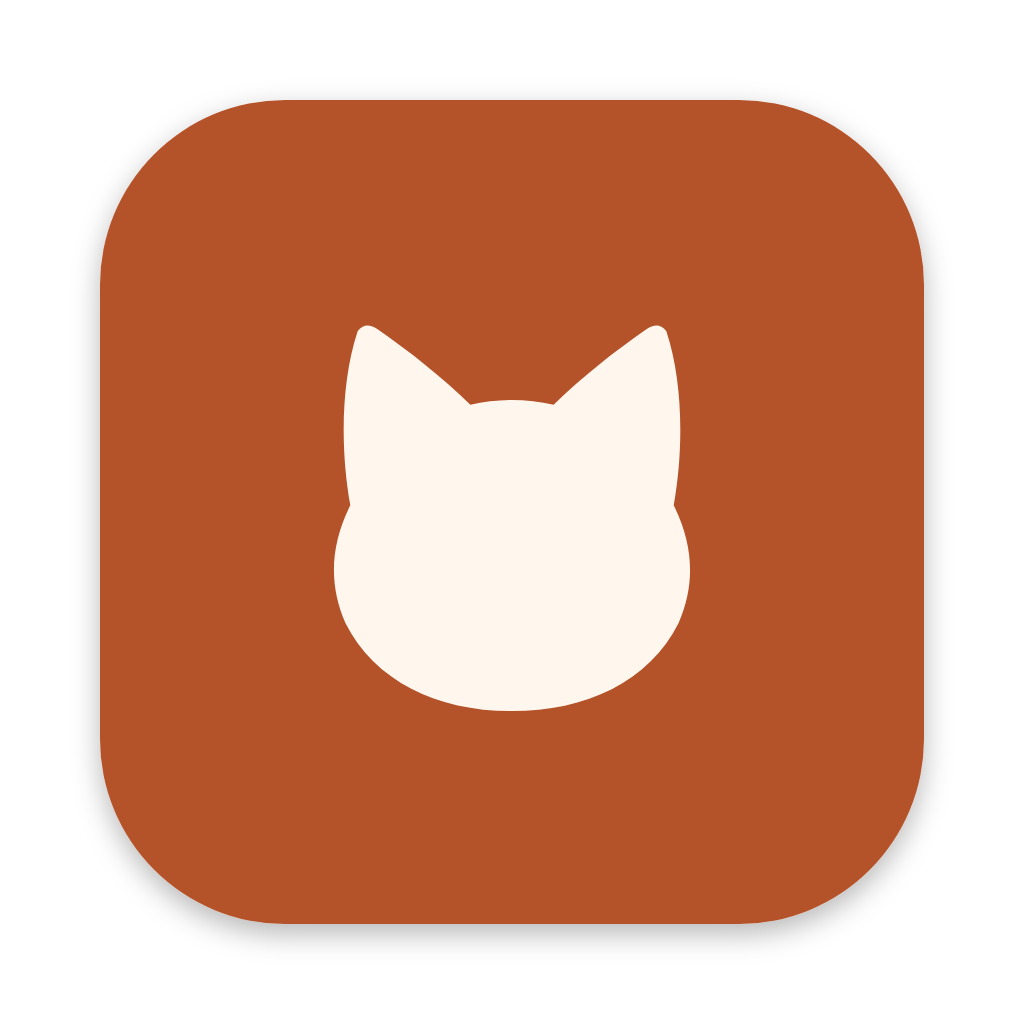
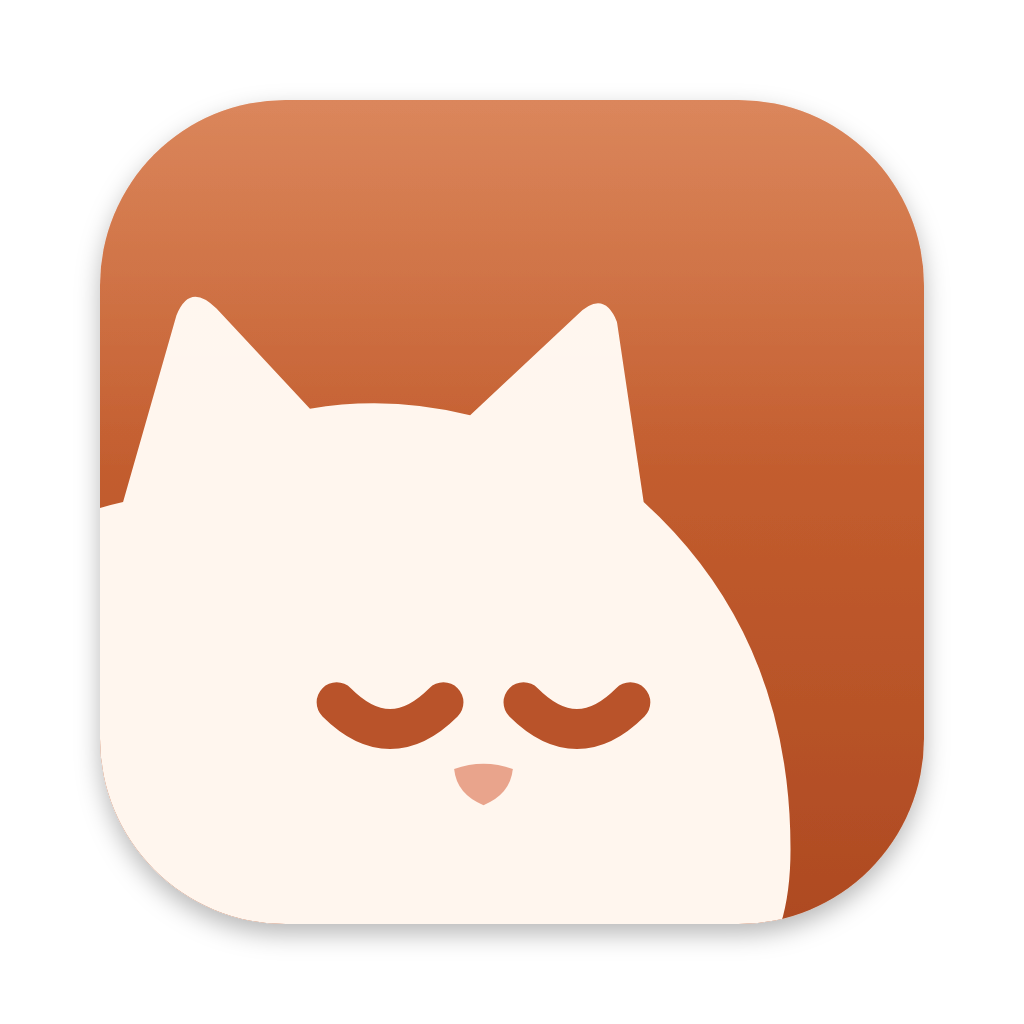
Pirouette 0.65.1
Claude-Session: https://claude.ai/code/session_01AnwWXbk8HopZ4ktCJynSgC

diff --git a/app/static/index.html b/app/static/index.html
@@ -7,7 +7,7 @@
   <meta name="description" content="Tes cours deviennent des quiz et des flashcards.">
   <meta name="theme-color" content="#FAF8F3">
   <meta name="apple-mobile-web-app-title" content="Pirouette">
-  <link rel="icon" href="/static/brand/pirouette.svg" type="image/svg+xml">
+  <link rel="icon" href="/static/brand/icon.svg" type="image/svg+xml">
   <link rel="apple-touch-icon" href="/static/brand/apple-touch-icon.png">
   <link rel="manifest" href="/manifest.webmanifest">
   <link rel="stylesheet" href="/static/style.css">
@@ -16,11 +16,14 @@
 </head>
 <body>
   <svg width="0" height="0" style="position:absolute" aria-hidden="true">
+    <defs><linearGradient id="pbg" x1="0" y1="0" x2="0" y2="1"><stop offset="0" stop-color="#D36C38"/><stop offset="1" stop-color="#AE4A22"/></linearGradient><linearGradient id="phl" x1="0" y1="0" x2="0" y2="1"><stop offset="0" stop-color="#fff" stop-opacity=".18"/><stop offset=".45" stop-color="#fff" stop-opacity="0"/></linearGradient><clipPath id="pcl"><rect width="100" height="100" rx="22.5"/></clipPath></defs>
+    <!-- L'icône de l'app : le chat qui fait la sieste -->
+    <symbol id="app-icon" viewBox="0 0 100 100"><g clip-path="url(#pcl)"><rect width="100" height="100" fill="url(#pbg)"/><g transform="translate(-62 -16) scale(1.62)"><path d="M14 78 Q14 46 40 40 L44 26 Q45 23.5 47 25.5 L54 33 Q60 32 66 33.5 L74 26 Q76 24 77 26.5 L79 40 Q90 50 90 66 Q90 78 80 78 Z" fill="#FFF6EE"/><path d="M56 55 q4.0 4.0 8 0" fill="none" stroke="#B9532A" stroke-width="3" stroke-linecap="round"/><path d="M70 55 q4.0 4.0 8 0" fill="none" stroke="#B9532A" stroke-width="3" stroke-linecap="round"/><path d="M64.8 60 Q67 59.2 69.2 60 Q69 61.9 67 62.7 Q65 61.9 64.8 60 Z" fill="#E9A48C"/></g><rect width="100" height="100" fill="url(#phl)"/></g></symbol>
     <symbol id="logo" viewBox="0 0 100 100"><path fill="currentColor" d="M17 47 C15 36 15 22 18.5 11.5 C19.5 10 21 10 22.5 11 C29 15.5 36 21 41.5 26.5 C47 25.2 53 25.2 58.5 26.5 C64 21 71 15.5 77.5 11 C79 10 80.5 10 81.5 11.5 C85 22 85 36 83 47 C87 55 87.5 63 84 71 C78 83 65 89 50 89 C35 89 22 83 16 71 C12.5 63 13 55 17 47 Z"/></symbol>
     <symbol id="chat-cat" viewBox="0 0 100 100"><path fill="currentColor" d="M22 16 H78 A14 14 0 0 1 92 30 V62 A14 14 0 0 1 78 76 H46 L26 92 V76 H22 A14 14 0 0 1 8 62 V30 A14 14 0 0 1 22 16 Z"/></symbol>
   </svg>
   <header class="topbar">
-    <a href="#/" class="brand"><span class="app-icon"><svg aria-hidden="true"><use href="#logo"/></svg><span class="beta-badge">bêta</span></span><span class="brand-name">Pirouette</span></a>
+    <a href="#/" class="brand"><span class="app-icon"><svg viewBox="0 0 100 100" aria-hidden="true"><use href="#app-icon"/></svg><span class="beta-badge">bêta</span></span><span class="brand-name">Pirouette</span></a>
     <nav class="nav-pill" aria-label="Menu">
       <a href="#/cours" data-nav="cours">Matières</a>
       <a href="#/defis" data-nav="defis" hidden>Défis</a>
@@ -37,7 +40,7 @@
 
     <!-- Accueil : phrase du jour, compteurs, la révision du jour -->
     <section id="view-home" class="view home">
-      <div class="home-brand"><span class="app-icon"><svg aria-hidden="true"><use href="#logo"/></svg><span class="beta-badge">bêta</span></span>Pirouette</div>
+      <div class="home-brand"><span class="app-icon"><svg viewBox="0 0 100 100" aria-hidden="true"><use href="#app-icon"/></svg><span class="beta-badge">bêta</span></span>Pirouette</div>
       <div class="hero">
         <h1 class="greeting" id="greeting">On révise ?</h1>
         <p class="hero-sub" id="hero-sub"></p>

diff --git a/web/style.css b/web/style.css
@@ -73,10 +73,8 @@ body.syncing #sync svg { animation: spin 1s linear infinite; }
 .center-page { min-height: calc(100dvh - 60px); display: flex; flex-direction: column; align-items: center; justify-content: center; text-align: center; gap: 4px; }
 .center-page h1 { margin: 14px 0 2px; }
 .lead { color: var(--muted); font-size: 17px; margin: 0 0 22px; }
-.logo-tile { width: 92px; height: 92px; border-radius: 22px; padding: 14px; color: #FFF6EE;
-  background: linear-gradient(#D36C38, #AE4A22); box-shadow: 0 16px 30px -14px rgba(120, 50, 20, .55); }
-.logo-tile svg { width: 100%; height: 100%; }
-.logo-tile svg path[stroke] { stroke: #B9532A; }
+.logo-tile { width: 92px; height: 92px; border-radius: 22.5%; overflow: hidden; box-shadow: 0 16px 30px -14px rgba(120, 50, 20, .55); }
+.logo-tile img { width: 100%; height: 100%; display: block; }
 .install, .pair-form { width: 100%; max-width: 380px; background: var(--surface); border-radius: 20px; box-shadow: var(--shadow); padding: 20px; text-align: left; }
 .install ol { padding-left: 20px; margin: 10px 0; line-height: 1.7; }
 .share-ic svg { width: 18px; height: 18px; vertical-align: -3px; color: #0A84FF; }

diff --git a/app/static/style.css b/app/static/style.css
@@ -2305,3 +2305,7 @@ body.focus .feedback, body.focus .feedback.ok, body.focus .feedback.ko, body.foc
 .pair-steps ol { margin: 0 0 10px; padding-left: 20px; line-height: 1.6; font-size: 14px; }
 .pair-code { font: 700 26px/1 ui-monospace, "SF Mono", Menlo, monospace; letter-spacing: .1em; color: var(--accent-ink); margin: 4px 0 8px; }
 @media (max-width: 640px) { .pair-box { flex-direction: column; align-items: flex-start; } }
+
+/* L'icône de l'app (le chat qui fait la sieste) : dessinée en entier, plus de fond ni de marge autour */
+.app-icon, .home-brand .app-icon { padding: 0; background: none; border-radius: 22.5%; }
+.app-icon > svg { border-radius: 22.5%; box-shadow: 0 0 0 .5px rgba(0, 0, 0, .06), 0 4px 10px -4px rgba(120, 50, 20, .45); }

diff --git a/web/sw.js b/web/sw.js
@@ -1,7 +1,7 @@
 // Hors connexion : la page elle-même est gardée sur l'appareil (les quiz et les cartes sont dans IndexedDB).
 // Réseau d'abord pour avoir la dernière version, la copie gardée sinon. Le service en ligne n'est jamais mis en cache.
 const CACHE = "pirouette-v1";
-const SHELL = ["./", "index.html", "style.css", "app.js", "config.js", "manifest.webmanifest", "icon.svg", "icon-192.png", "apple-touch-icon.png"];
+const SHELL = ["./", "index.html", "style.css", "app.js", "config.js", "manifest.webmanifest", "icon.svg", "icon-192.png", "icon-512.png", "apple-touch-icon.png"];
 
 self.addEventListener("install", (e) => {
   e.waitUntil(caches.open(CACHE).then((c) => c.addAll(SHELL)).then(() => self.skipWaiting()));

diff --git a/app/static/app.js b/app/static/app.js
@@ -4729,6 +4729,9 @@ const WELCOME = [
 ];
 // Les nouveautés de chaque version (le carton « Quoi de neuf » ne s'affiche que si la version en a)
 const WHATS_NEW = {
+  "0.65.1": [
+    ["☾", "Une nouvelle icône", "Le chat qui fait la sieste : dans le Dock, sur Windows, dans l'app et sur ton iPhone"],
+  ],
   "0.65.0": [
     ["▯", "Sur ton iPhone et ton iPad", "Réglages › iPhone et iPad : scanne le code avec ton téléphone, et révise tes flashcards et tes quiz partout, même hors connexion. Tes réponses reviennent sur ton Mac"],
     ["⚖", "Le poids de tes révisions", "Réglages › Sauvegarde : combien pèsent tes quiz et tes flashcards"],

diff --git a/web/app.js b/web/app.js
@@ -344,7 +344,7 @@ function renderMissing() {
 }
 
 function logoSvg() {
-  return `<svg viewBox="0 0 100 100" aria-hidden="true"><path fill="currentColor" d="M14 78 Q14 46 40 40 L44 26 Q45 23.5 47 25.5 L54 33 Q60 32 66 33.5 L74 26 Q76 24 77 26.5 L79 40 Q90 50 90 66 Q90 78 80 78 Z"/><path d="M56 55 q4 4 8 0 M70 55 q4 4 8 0" fill="none" stroke="var(--accent)" stroke-width="3" stroke-linecap="round"/></svg>`;
+  return '<img src="icon.svg" alt="" width="92" height="92">';
 }
 
 function renderPair() {

diff --git a/app/__init__.py b/app/__init__.py
@@ -1,1 +1,1 @@
-__version__ = "0.65.0"
+__version__ = "0.65.1"
